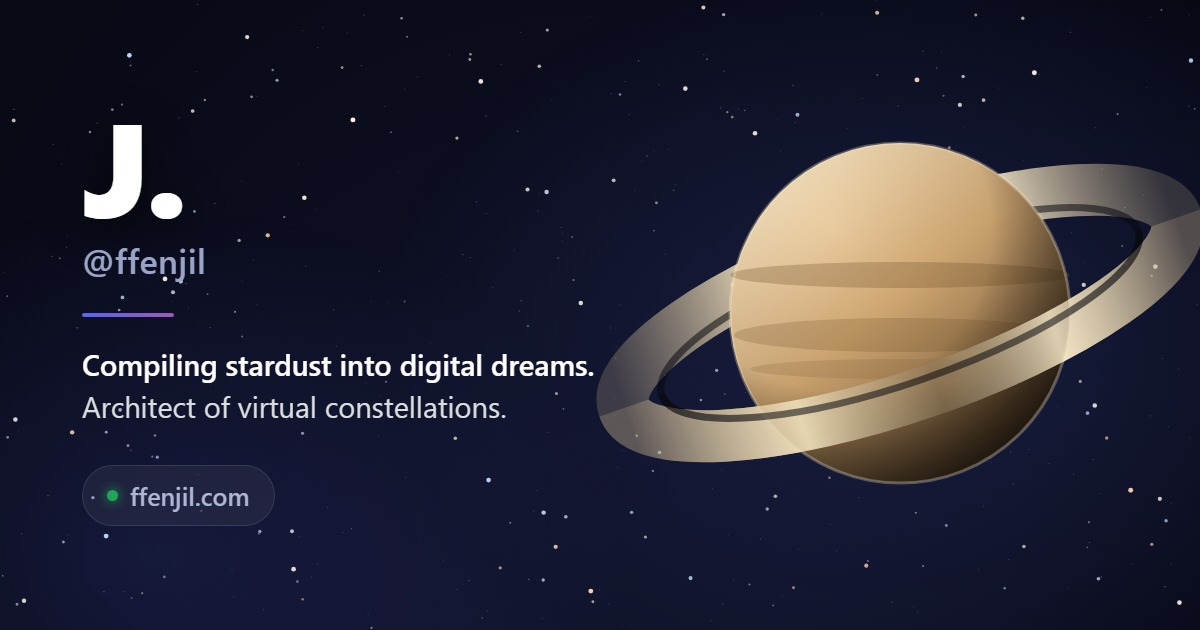
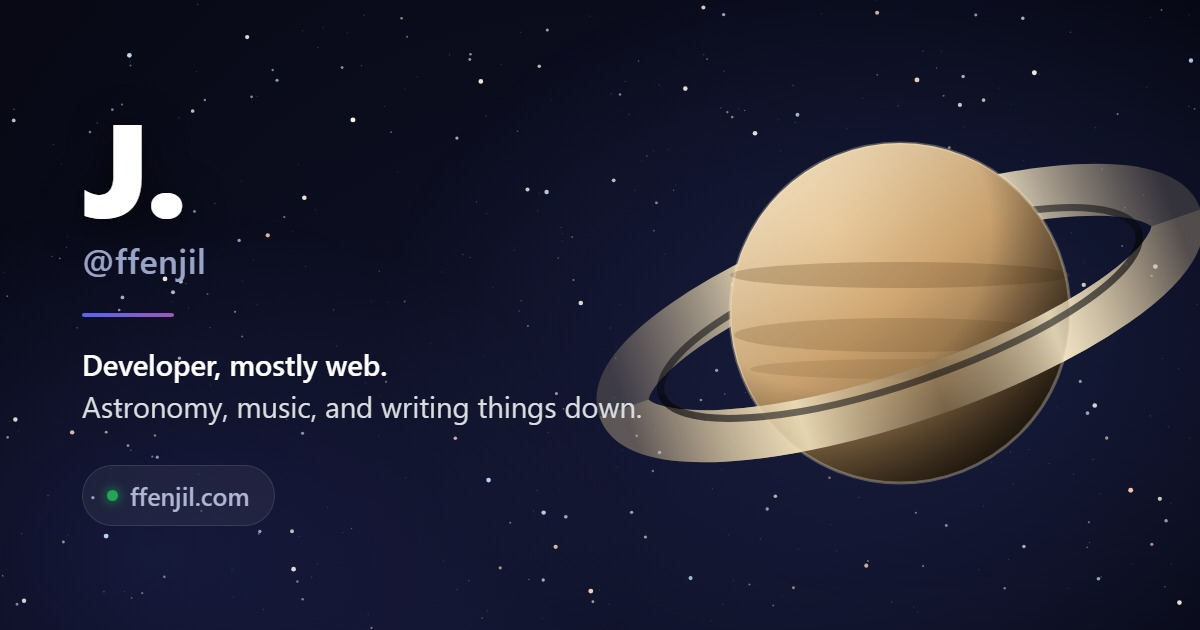
Rewrite bio copy

Changed region(s): [[0.0617, 0.5429, 0.555, 0.6635]]

diff --git a/index.html b/index.html
@@ -17,7 +17,7 @@
         is to be the top result when someone searches for me by name.
     -->
     <title>Jil (@ffenjil) - Finding Purpose</title>
-    <meta name="description" content="Jil (@ffenjil) - developer, writer and stargazer. A Discord-style profile card with live presence, plus notes from the blog. Compiling stardust into digital dreams.">
+    <meta name="description" content="Jil (@ffenjil) - developer, mostly web. Personal site with live Discord and Spotify presence, plus links to the blog. Into astronomy, music, and writing things down.">
     <meta name="author" content="Jil">
     <!--
         max-snippet:-1 lifts the cap on how much text may be quoted, and
@@ -48,7 +48,7 @@
     <meta property="og:site_name" content="ffenjil">
     <meta property="og:url" content="https://ffenjil.com/">
     <meta property="og:title" content="Jil (@ffenjil) - Finding Purpose">
-    <meta property="og:description" content="Developer, writer and stargazer. Compiling stardust into digital dreams.">
+    <meta property="og:description" content="Developer, mostly web. Into astronomy, music, and writing things down.">
     <meta property="og:image" content="https://ffenjil.com/assets/images/og.jpg">
     <meta property="og:image:type" content="image/jpeg">
     <meta property="og:image:width" content="1200">
@@ -61,7 +61,7 @@
     <meta name="twitter:site" content="@ffenjil">
     <meta name="twitter:creator" content="@ffenjil">
     <meta name="twitter:title" content="Jil (@ffenjil) - Finding Purpose">
-    <meta name="twitter:description" content="Developer, writer and stargazer. Compiling stardust into digital dreams.">
+    <meta name="twitter:description" content="Developer, mostly web. Into astronomy, music, and writing things down.">
     <meta name="twitter:image" content="https://ffenjil.com/assets/images/og.jpg">
     <meta name="twitter:image:alt" content="Jil (@ffenjil) - ffenjil.com, with a ringed planet against a star field">
 
@@ -78,7 +78,7 @@
       "alternateName": "ffenjil",
       "url": "https://ffenjil.com/",
       "image": "https://ffenjil.com/assets/images/icon.png",
-      "description": "Developer, writer and stargazer. Compiling stardust into digital dreams.",
+      "description": "Developer, mostly web. Into astronomy, music, and writing things down.",
       "sameAs": [
         "https://blog.ffenjil.com",
         "https://github.com/ffenjil",
@@ -153,10 +153,9 @@
 
             <!-- A little something about me - space themed because why not -->
             <div class="bio-text">
-                Compiling stardust into digital dreams. <br>
-                Architect of virtual constellations. Now writing too, blog's below. <br>
-                <i>"Choose peace over a person, but not from hurt. Loneliness is
-                missing them; aloneness is finding yourself."</i>
+                Developer, mostly web. <br>
+                Into astronomy, music, and writing things down. <br>
+                New posts on the blog below.
             </div>
 
             <!--
